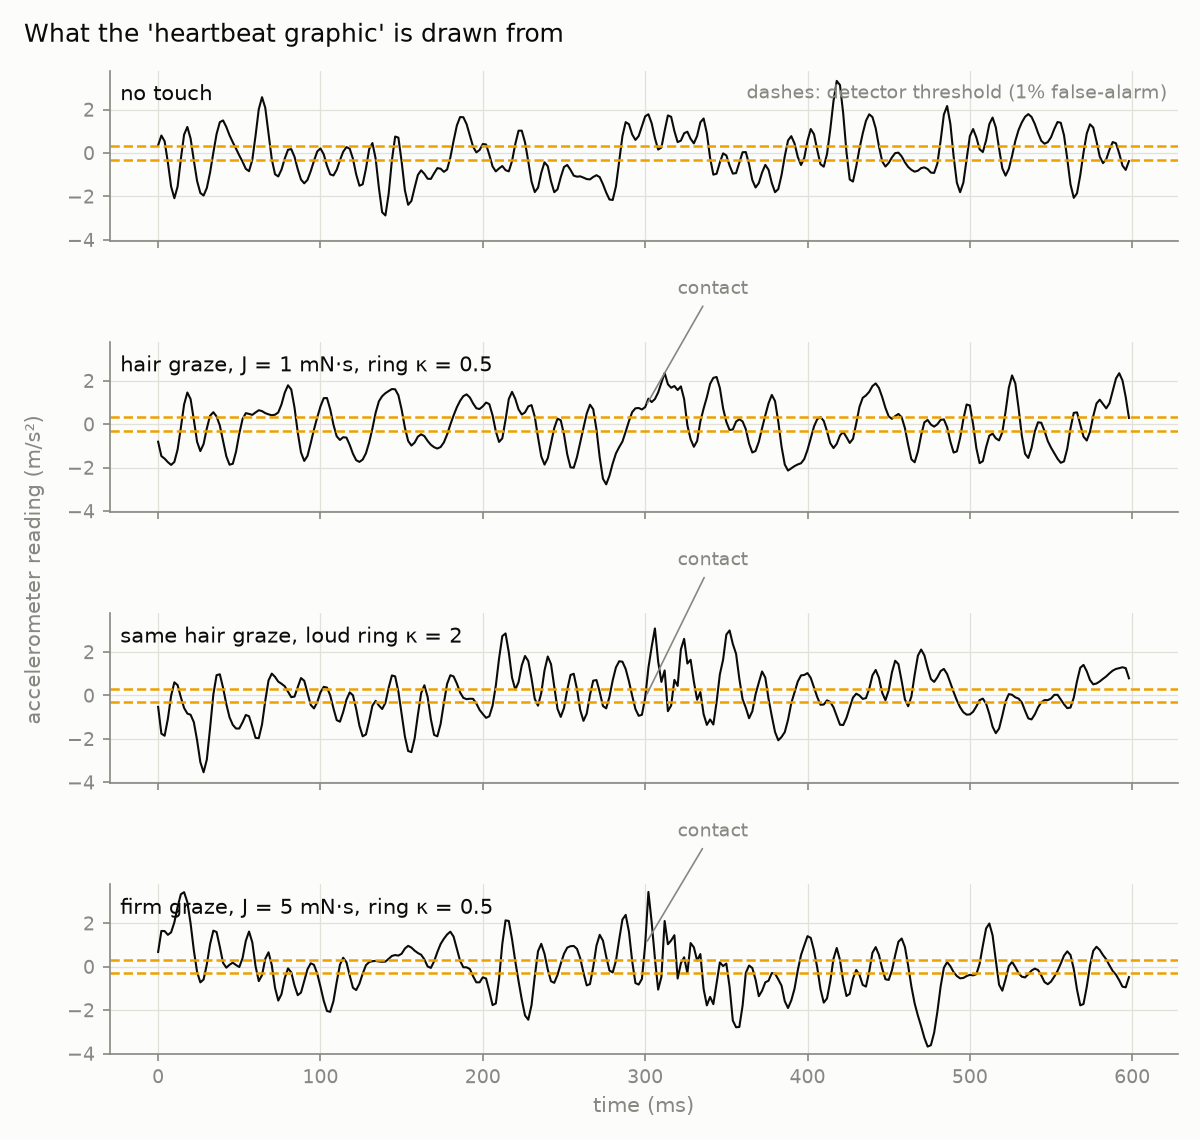
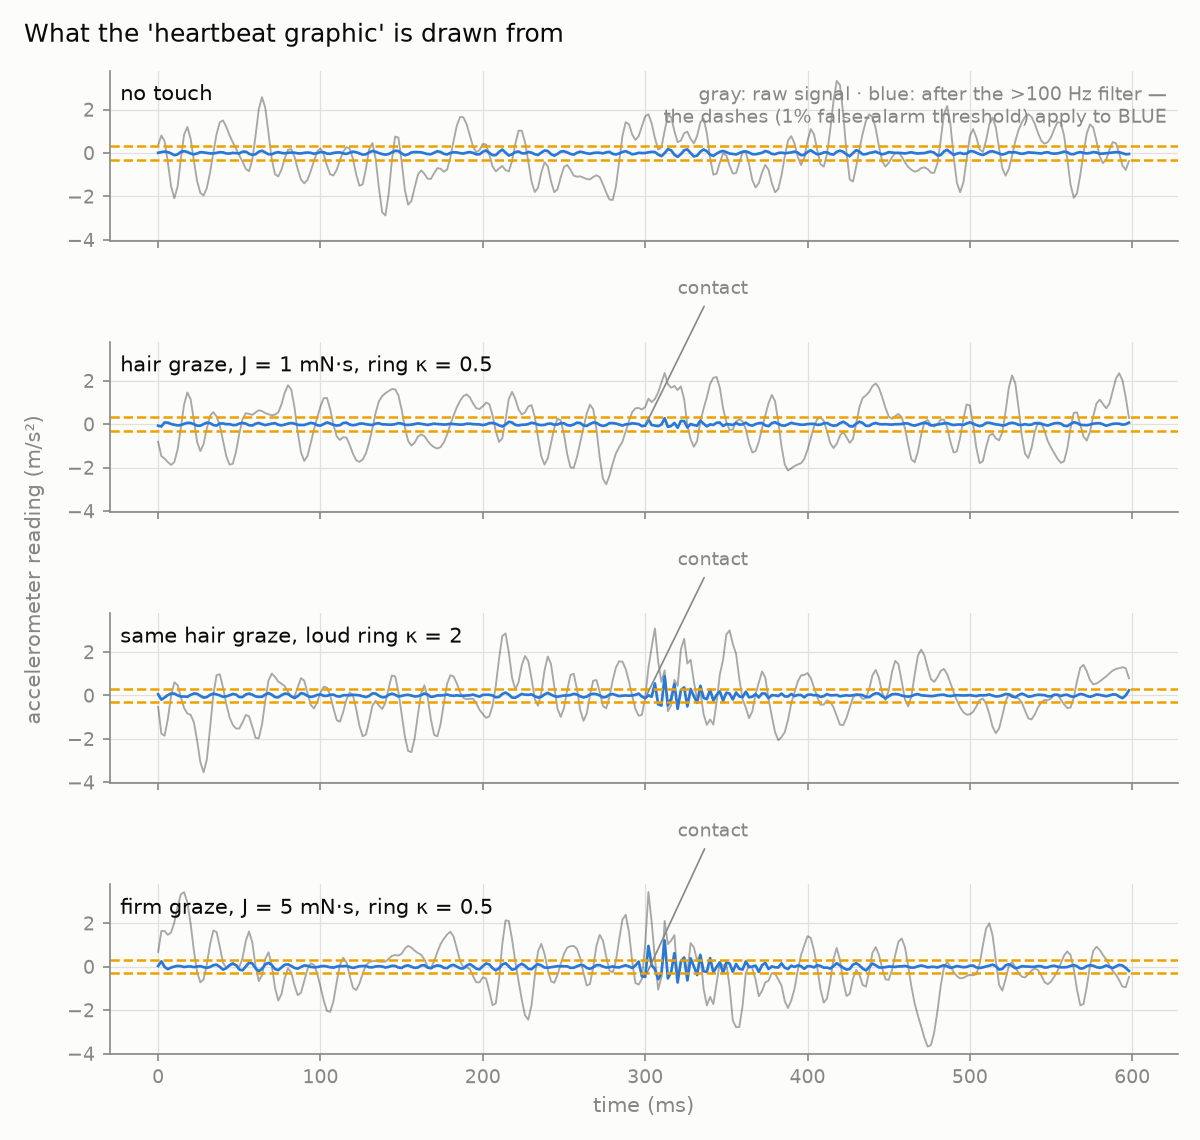
Show high-pass output in traces figure; threshold now on right signal
Shishir spotted the flaw: threshold dashes were drawn on the raw trace
while the detector thresholds the high-passed signal. Each row now
overlays the filtered signal (blue) on the raw (gray). Adds highpass()
helper; detect_stat uses it. Prediction log updated.

Claude-Session: https://claude.ai/code/session_01JinYQagh942U1i2GTMJHNi

diff --git a/sim/touch_detection.py b/sim/touch_detection.py
@@ -95,12 +95,17 @@ def to_sensor(a_hi):
     return np.fft.irfft(spec, n=N_HI, axis=-1)[..., ::DECIM]
 
 
-def detect_stat(a_500):
-    """Detection statistic: peak |high-pass| above the aero band."""
+def highpass(a_500):
+    """The detector's ears: kill everything below ~100 Hz (the aero band)."""
     f = np.fft.rfftfreq(a_500.shape[-1], 1 / FS)
     spec = np.fft.rfft(a_500, axis=-1)
     spec *= 1 - 1 / (1 + (f / 100.0) ** 8)
-    return np.abs(np.fft.irfft(spec, n=a_500.shape[-1], axis=-1)).max(axis=-1)
+    return np.fft.irfft(spec, n=a_500.shape[-1], axis=-1)
+
+
+def detect_stat(a_500):
+    """Detection statistic: peak |high-pass| above the aero band."""
+    return np.abs(highpass(a_500)).max(axis=-1)
 
 
 def run_cell(J, tau, kappa, noise_stats):
@@ -134,17 +139,21 @@ def fig_traces(noise_stats, out):
     for ax, (label, J, kappa) in zip(axes, cases):
         sig = touch_pulse(J, 5e-3, kappa) if J else np.zeros(N_HI)
         a = to_sensor(make_noise(1)[0] + sig)
+        hp = highpass(a)
         styled_axes(ax)
-        ax.plot(t, a, color=INK, lw=1.0)
+        ax.plot(t, a, color=INK, lw=0.9, alpha=0.35)
+        ax.plot(t, hp, color=CAT[0], lw=1.3)
         ax.axhline(thresh, color=CAT[2], lw=1.2, ls="--")
         ax.axhline(-thresh, color=CAT[2], lw=1.2, ls="--")
         ax.text(0.01, 0.92, label, transform=ax.transAxes, fontsize=10,
                 color=INK, va="top")
         if J:
-            ax.annotate("contact", (300, a[int(0.3 * FS)]), fontsize=9,
+            ax.annotate("contact", (300, hp[int(0.3 * FS)]), fontsize=9,
                         color=MUTED, xytext=(320, 6),
                         arrowprops=dict(arrowstyle="-", color=MUTED, lw=0.8))
-    axes[0].text(0.99, 0.92, "dashes: detector threshold (1% false-alarm)",
+    axes[0].text(0.99, 0.92,
+                 "gray: raw signal · blue: after the >100 Hz filter —\n"
+                 "the dashes (1% false-alarm threshold) apply to BLUE",
                  transform=axes[0].transAxes, fontsize=9, color=MUTED,
                  va="top", ha="right")
     axes[-1].set_xlabel("time (ms)", color=MUTED)

diff --git a/sim/prediction-log.md b/sim/prediction-log.md
@@ -21,6 +21,15 @@ may matched-filter or use gyro); κ=180 Hz ring frequency assumed; noise σ=1 m/
 assumed; fig_traces draws the threshold on the raw trace (wrong signal — teaching
 moment, fix in round 2 figures).
 
+Flaw resolution (2026-07-06): Shishir found it by asking "does the traces figure
+already have the hpf output" — it didn't; the threshold dashes were drawn on the
+raw trace while the detector thresholds the high-passed signal. Fixed: each row
+now overlays the filtered signal (blue) on the raw (gray); the no-touch row is
+finally self-consistent (raw roams ±3, blue sits inside the dashes), and the
+κ=2 row shows the detected burst clearly while the raw trace shows nothing.
+Meta-lesson for post 2: the broadcast heartbeat graphic commits exactly this sin —
+showing a raw-looking wiggle while the decision happens in a domain nobody sees.
+
 ## Round 2 — 2026-07-06: "where does the κ=2 cliff sit in J?"
 
 Shishir predicted: 0.2 mN·s. Sim result: ~0.35 mN·s (TPR: 0.01 at J≤0.2, 0.21 at
